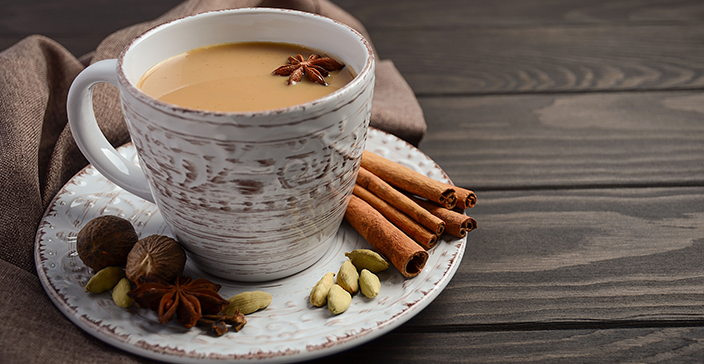
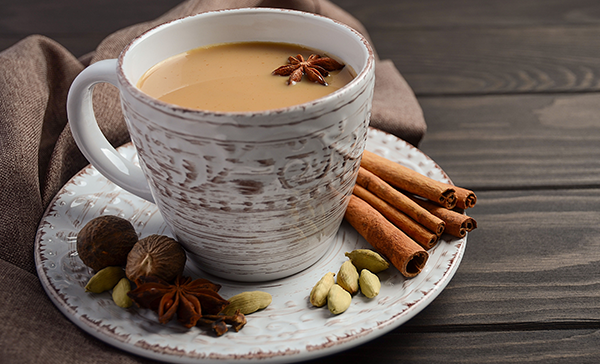
+masala recipe +lasagna photo | chg img resolution

diff --git a/pages/masala.html b/pages/masala.html
@@ -1,0 +1,43 @@
+<!DOCTYPE html>
+<html lang="en">
+<head>
+    <meta charset="UTF-8">
+    <meta http-equiv="X-UA-Compatible" content="IE=edge">
+    <meta name="viewport" content="width=device-width, initial-scale=1.0">
+    <title>Masala</title>
+</head>
+<body>
+    <h1>Best tea in the universe</h1>
+    <img src="../img/masala.png" alt="a cup of masala tea surrounded with spices">
+    <p><a href="https://www.youtube.com/watch?v=xxhVZ28aCrw">recipe source</a></p>
+    <h3>Ingredients:</h3>
+    <ul>
+        <li>50g dried ginger</li>
+        <li>5g nutmeg</li>
+        <li>15g cinnamon</li>
+        <li>10g black peppercorns</li>
+        <li>15g clove</li>
+        <li>15g green cardamom</li>
+        <li>4-5 black cardamom pods</li>
+        <li>black tea</li>
+        <li>milk</li>
+    </ul>
+    <h3>Dishes:</h3>
+    <ul>
+        <li>1 frying pan</li>
+        <li>1 saucepan</li>
+        <li>1 blender for spices / kitchen processor</li>
+    </ul>
+    <h3>How to cook:</h3>
+    <ol>
+        <li>Dry roast all spices except ginger in a pan on low-medium flame for about a minute.</li>
+        <li>Grind all the spices into a powder.</li>
+        <li>Keep your masala powder in an airtight container.</li>
+        <li>To make masala tea add 1 cup of water to a saucepan along witg 1 tsp of masala powder and 1-2 tsp of your favourite black tea to taste. Boil the tea for 1 minute.</li>
+        <li>Add milk and let the tea boil for another 3-8 minutes (depending on how strong you like your tea)</li>
+        <li>Strain the tea and add sugar/honey.</li>
+    </ol>
+    <h3>Done!</h3>
+
+</body>
+</html>

diff --git a/index.html b/index.html
@@ -4,10 +4,12 @@
     <meta charset="UTF-8">
     <meta http-equiv="X-UA-Compatible" content="IE=edge">
     <meta name="viewport" content="width=device-width, initial-scale=1.0">
-    <title>Document</title>
+    <title>Cookbook Elnuk</title>
 </head>
 <body>
     <h1>Cookbook Elnuk</h1>
+    <img src="./img/elnuk.jpeg" alt="image of Bull Elnuk" >
+    <p>^ this is Elnuk</p>
     <ul>
         <li><a href="./pages/lasagna.html">Lasagna</a></li>
         <li><a href="./pages/chili-oil.html">Sichuan Chili oil</a></li>

diff --git a/pages/chili-oil.html b/pages/chili-oil.html
@@ -26,7 +26,7 @@
     <h3>Dishes:</h3>
     <ul>
         <li>1 big metal bowl</li>
-        <li>1 medium pot</li>
+        <li>1 medium saucepan</li>
     </ul>
     <h3>How to cook:</h3>
     <ol>
